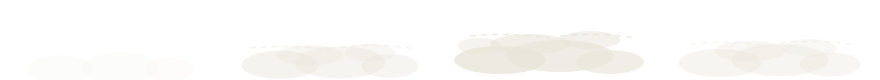
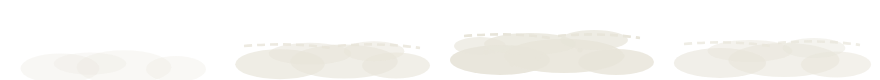
Le marié de la noce (repos 4, parler 6) et une buée de crypte plus visible
Retours QA/Gameplay du 17/11 : le marié manquait à e3_noce ; la buée se voyait à peine en 720p
(même case 220 x 80, même ancrage, mêmes 4 images : plus opaque, plus large, des gouttes).

Claude-Session: https://claude.ai/code/session_011WbKxBfoJbcyebqrVqkEA5

diff --git a/tools/gen_chr_pnj_e3.py b/tools/gen_chr_pnj_e3.py
@@ -11,6 +11,9 @@ centre à x 120, échelle 0,845) : images de 200 x 320, sol à y 316, centre à 
   chr_sonneur_repos_01     : 4 images ; le vieux sonneur tire une corde qui ne tient à rien (e3_clocher).
   chr_vieux_repos_01       : 4 images ; un vieux de la noce, voûté sur son bâton, barbe blanche (e3_noce).
   chr_vieux_parler_01      : 6 images ; il lève la main libre, la bouche s'ouvre, puis il revient.
+  chr_marie_repos_01       : 4 images ; le marié, jeune, droit dans sa veste du dimanche trop grande,
+                             la casquette serrée contre la poitrine, une fleur de papier (e3_noce).
+  chr_marie_parler_01      : 6 images ; il ouvre la main libre vers Tobie, la bouche s'ouvre.
   chr_procession_marche_01 : 4 images ; un villageois encapuchonné, cierge à la main ; la flamme
                              a sa réserve de papier nu, pour la nuit (e3_procession, chemin de nuit).
 
@@ -287,6 +290,56 @@ def vieux_parler() -> list[str]:
     return [vieux(0), vieux(1, .5), vieux(2, 1.0, True), vieux(1, 1.0), vieux(0, 1.0, True), vieux(1, .4)]
 
 
+def marie(i: int, main: float = 0.0, bouche: bool = False) -> str:
+    """Le marié : jeune, raide, la veste du dimanche un peu grande (les manches sur les mains), les
+    cheveux plaqués avec une raie, la casquette tenue contre la poitrine de la main gauche. main 0
+    à 1 : la main droite quitte la couture du pantalon et s'ouvre vers Tobie ; bouche : elle
+    s'ouvre. Aucun rouge : la fleur est de papier, comme les rubans de la noce."""
+    s = souffle(i)
+    mx, my = 90 - 14 * main, 290 - 70 * main
+    out = [
+        f'<path d="M102 298 L98 396 L120 396 L120 298 Z M126 298 L130 396 L152 396 L146 298 Z" fill="url(#mol)" {ST} stroke-width="2.2"/>',
+        f'<path d="M88 392 L86 405 L122 405 L120 392 Z M128 392 L128 405 L162 405 L158 392 Z" fill="{ENCRE}" {ST} stroke-width="1.4"/>',
+        f'<g transform="translate(0 {s * .7:.1f})">',
+        # la veste, carrée, trop large aux épaules ; la chemise blanche, le col haut
+        f'<path d="M88 176 Q92 162 122 158 Q152 162 156 176 Q160 250 154 306 L94 306 Q86 250 88 176 Z" fill="url(#h2)" {ST} stroke-width="2.6"/>',
+        f'<path d="M110 160 L122 214 L134 160 Z" fill="{PAPIER}" {ST} stroke-width="1.8"/>',
+        f'<path d="M112 166 L122 174 L132 166" fill="none" {ST} stroke-width="2.6"/>',
+        f'<path d="M122 214 V304" fill="none" {ST} stroke-width="1.4"/>'
+        f'<circle cx="126" cy="236" r="2" fill="{PAPIER}"/><circle cx="126" cy="262" r="2" fill="{PAPIER}"/>',
+        # la fleur de papier à la boutonnière
+        "".join(f'<circle cx="{142 + 5 * math.cos(a):.1f}" cy="{184 + 5 * math.sin(a):.1f}" r="3.2" fill="{PAPIER}" {ST} stroke-width="1"/>'
+                for a in (0, 1.26, 2.51, 3.77, 5.03)),
+        f'<circle cx="142" cy="184" r="1.6" fill="{ENCRE}"/>',
+        # le bras gauche (au fond) plié : la casquette contre la poitrine
+        f'<path d="M150 178 Q160 214 140 232 L128 222 Q144 208 138 184 Z" fill="url(#h2)" {ST} stroke-width="2.2"/>',
+        f'<path d="M110 206 Q124 196 140 204 Q146 222 134 236 Q118 240 108 228 Q104 214 110 206 Z" fill="url(#h1)" {ST} stroke-width="2"/>',
+        f'<path d="M106 226 Q124 236 142 226" fill="none" {ST} stroke-width="3"/>',
+        f'<ellipse cx="136" cy="226" rx="8" ry="6" fill="{PAPIER}" {ST} stroke-width="1.6"/>',
+        # le bras droit : le long du corps, ou ouvert vers Tobie (à gauche)
+        f'<path d="M96 178 Q{(96 + mx) / 2 - 10:.0f} {(178 + my) / 2:.0f} {mx - 4:.0f} {my - 4:.0f} L{mx + 8:.0f} {my + 2:.0f} '
+        f'Q{(96 + mx) / 2 + 4:.0f} {(178 + my) / 2 + 4:.0f} {108} {180} Z" fill="url(#h2)" {ST} stroke-width="2.2"/>',
+    ]
+    if main > .3:  # la paume tournée vers le haut, offerte
+        out.append(f'<path d="M{mx + 2:.0f} {my + 2:.0f} Q{mx - 14:.0f} {my + 4:.0f} {mx - 20:.0f} {my - 4:.0f} L{mx - 22:.0f} {my - 10:.0f} '
+                   f'L{mx - 8:.0f} {my - 8:.0f} L{mx - 12:.0f} {my - 18:.0f} L{mx - 6:.0f} {my - 18:.0f} L{mx + 4:.0f} {my - 6:.0f} Z" fill="{PAPIER}" {ST} stroke-width="1.8"/>')
+    else:
+        out.append(f'<ellipse cx="{mx:.0f}" cy="{my:.0f}" rx="7" ry="9" fill="{PAPIER}" {ST} stroke-width="1.8"/>')
+    out.append(visage(120, 132, 19, sourire=not bouche))
+    if bouche:
+        out.append(f'<ellipse cx="117" cy="145" rx="4.2" ry="3.4" fill="{ENCRE}"/>')
+    # les cheveux plaqués, la raie bien nette, les oreilles décollées
+    out.append(f'<path d="M100 128 Q98 106 120 104 Q142 104 140 126 Q134 114 116 114 Q106 116 100 128 Z" fill="{LAVIS}" {ST} stroke-width="2"/>'
+               f'<path d="M114 106 Q110 112 104 122" fill="none" stroke="{PAPIER}" stroke-width="1.6"/>'
+               f'<ellipse cx="140" cy="134" rx="4" ry="6.5" fill="{PAPIER}" {ST} stroke-width="1.6"/>'
+               '</g>')
+    return "".join(out)
+
+
+def marie_parler() -> list[str]:
+    return [marie(0), marie(1, .5), marie(2, 1.0, True), marie(1, 1.0), marie(0, 1.0, True), marie(1, .4)]
+
+
 # ------------------------------------------------------------------ la procession
 
 def procession(i: int) -> str:
@@ -325,6 +378,8 @@ def main() -> None:
         "chr_procession_marche_01": [procession(i) for i in range(4)],
         "chr_vieux_repos_01": [vieux(i) for i in range(4)],
         "chr_vieux_parler_01": vieux_parler(),
+        "chr_marie_repos_01": [marie(i) for i in range(4)],
+        "chr_marie_parler_01": marie_parler(),
     }
     for nom, images in planches.items():
         (DST / f"{nom}.svg").write_text(planche(images), encoding="utf-8")

diff --git a/tools/gen_fx_objets_anim.py b/tools/gen_fx_objets_anim.py
@@ -35,20 +35,25 @@ def planche(images: list[str], w: int, h: int) -> str:
 
 def buee(k: int) -> str:
     """Des nappes de buée, papier pâle, plus ou moins denses ; les mêmes nappes d'une image à
-    l'autre (elles grandissent depuis le bas de la vitre)."""
-    force = (.12, .45, .8, .4)[k]
-    haut = (.25, .6, 1.0, .75)[k]
-    nappes = ((60, 60, 46, 14), (120, 56, 54, 16), (170, 62, 34, 12), (90, 44, 40, 10), (150, 40, 30, 9), (40, 46, 22, 8))
+    l'autre (elles grandissent depuis le bas de la vitre). Retour QA du 17/11 : à peine visible
+    en 720p ; les nappes sont plus opaques et plus larges, les traits plus épais, et des
+    gouttes perlent quand elle est pleine (même case, même ancrage)."""
+    force = (.3, .7, .95, .6)[k]
+    haut = (.3, .65, 1.0, .75)[k]
+    nappes = ((60, 60, 50, 15), (124, 56, 60, 17), (176, 62, 38, 13), (90, 44, 46, 11), (154, 40, 34, 10), (40, 46, 26, 9))
     o = []
     for j, (x, y, rx, ry) in enumerate(nappes):
         if j >= 2 + 4 * haut:
             continue
         yy = 72 - (72 - y) * haut
-        o.append(f'<ellipse cx="{x}" cy="{yy:.1f}" rx="{rx * (.6 + .4 * haut):.1f}" ry="{ry:.1f}" fill="{PAPIER}" opacity="{force * (1 - j * .08):.2f}"/>')
+        o.append(f'<ellipse cx="{x}" cy="{yy:.1f}" rx="{rx * (.7 + .3 * haut):.1f}" ry="{ry:.1f}" fill="{PAPIER}" opacity="{force * (1 - j * .06):.2f}"/>')
     # les traits de buée, comme ceux du décor, plus nombreux quand elle est pleine
     if k in (1, 2, 3):
-        o.append(f'<path d="M30 {66 - 30 * haut:.0f} Q70 {62 - 30 * haut:.0f} 110 {68 - 30 * haut:.0f} M120 {64 - 28 * haut:.0f} Q160 {60 - 28 * haut:.0f} 196 {66 - 28 * haut:.0f}" '
-                 f'fill="none" stroke="{PAPIER}" stroke-width="1.4" stroke-dasharray="6 5" opacity="{force:.2f}"/>')
+        o.append(f'<path d="M24 {66 - 30 * haut:.0f} Q70 {62 - 30 * haut:.0f} 110 {68 - 30 * haut:.0f} M118 {64 - 28 * haut:.0f} Q160 {60 - 28 * haut:.0f} 200 {66 - 28 * haut:.0f}" '
+                 f'fill="none" stroke="{PAPIER}" stroke-width="2.6" stroke-dasharray="8 5" opacity="{min(1.0, force + .1):.2f}"/>')
+    if k == 2:
+        for x, y in ((46, 52), (98, 58), (140, 50), (182, 56), (72, 64)):
+            o.append(f'<circle cx="{x}" cy="{y}" r="2.6" fill="{PAPIER}"/>')
     return "".join(o)
 
 
